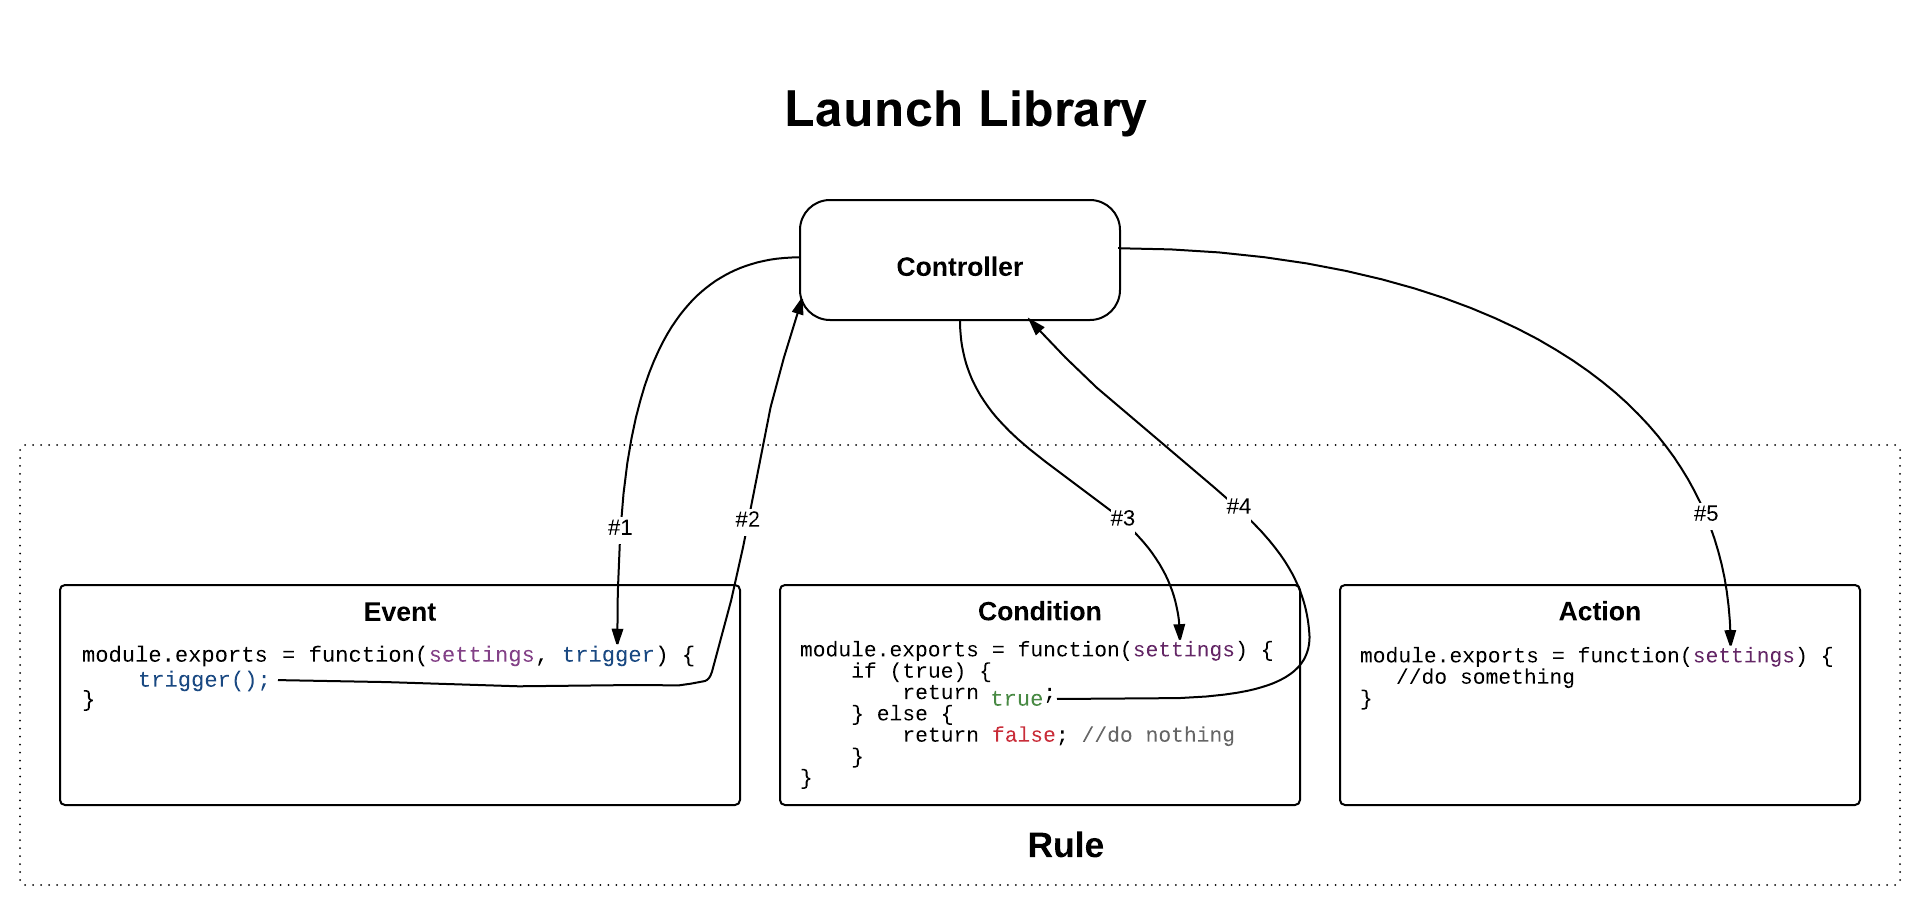
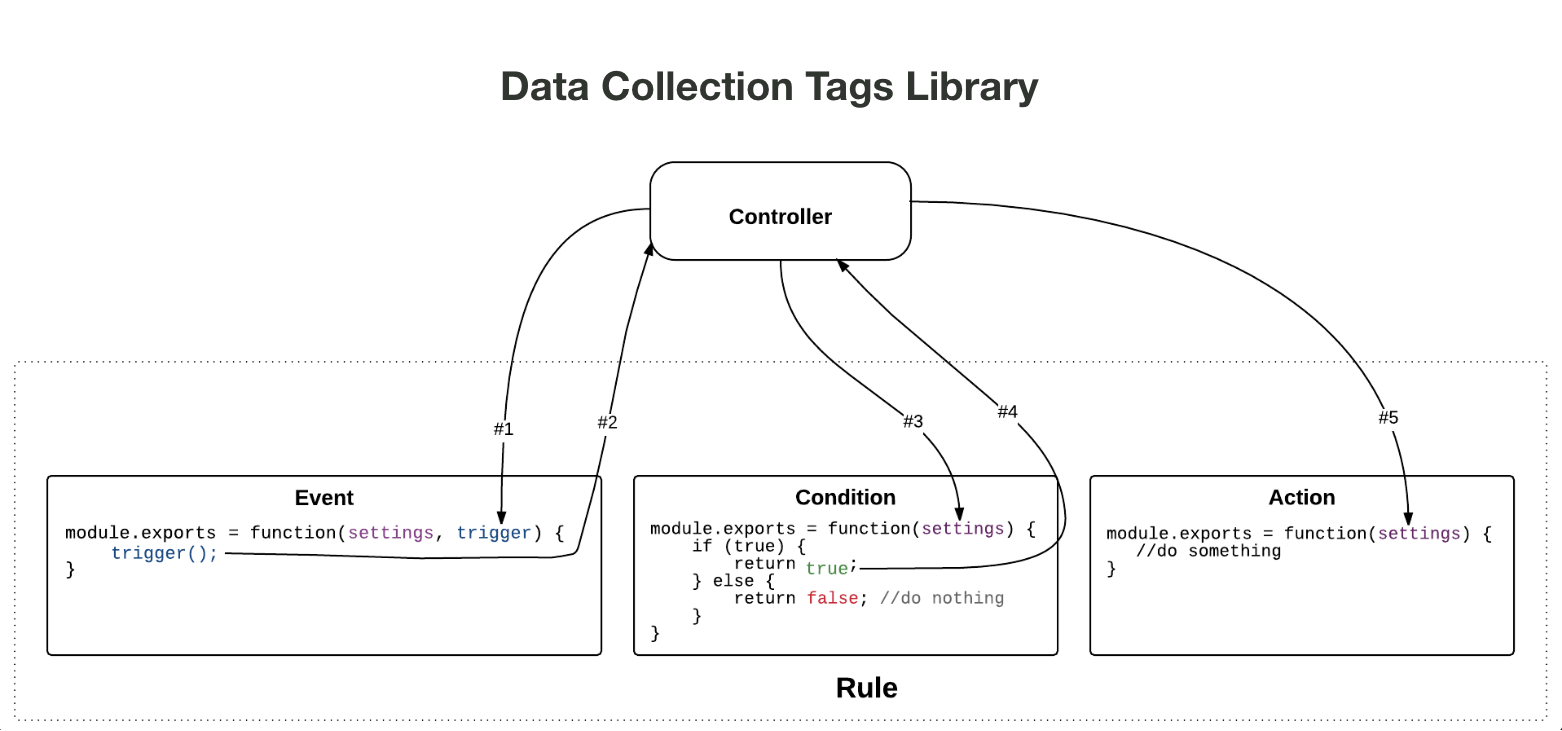
Updated diagrams with current terminology. Updated content and metadata in line with tags branding guidelines.

diff --git a/help/extension-dev/web/flow.md b/help/extension-dev/web/flow.md
@@ -1,13 +1,13 @@
 ---
 title: Web Extension Flow
-description: Learn how the components of an Adobe Experience Platform Launch web extension interact with each other at runtime.
+description: Learn how web extension components interact with each other at runtime in Adobe Experience Platform Data Collection tags.
 exl-id: 51365bb9-a877-448a-9287-f33c19b8ab83
 ---
 # Web extension flow
 
 In web extensions, each event, condition, action, and data element type has both a view which allows users to modify settings and a library module to act upon those user-defined settings.
 
-As the following high-level diagram shows, the extension's event type view will be shown inside an iframe within the application integrated with Adobe Experience Platform Launch. The user then uses the view to modify settings which are then saved to Platform Launch's data storage. When the Platform Launch runtime library is built, both the extension's event type library module as well as the user-defined settings will be included in the runtime library. At runtime, Platform Launch will inject the user-defined settings into the library module.
+As the following high-level diagram shows, the extension's event type view will be shown inside an iframe within the application integrated with Adobe Experience Data Collection. The user then uses the view to modify settings which are then saved to Data Collection's data storage. When the Data Collection tags runtime library is built, both the extension's event type library module as well as the user-defined settings will be included in the runtime library. At runtime, Data Collection tags will inject the user-defined settings into the library module.
 
 ![extension flow diagram](../images/flow/web/extension-flow.png)
 
@@ -18,7 +18,7 @@ In the following diagram you can see the link between events, conditions and act
 The rule processing flow contains the following phases:
 
 1. The `settings` and the `trigger` method are provided to the event library module at startup.
-1. When the event library module determines the event has occurred, the event library module calls `trigger`.
-1. Platform Launch passes `settings` into the rule’s condition library modules where conditions are evaluated.
-1. Each condition library module returns whether a condition evaluates to true.
-1. If all conditions pass, the rule’s actions are executed.
+2. When the event library module determines the event has occurred, the event library module calls `trigger`.
+3. Platform Launch passes `settings` into the rule’s condition library modules where conditions are evaluated.
+4. Each condition library module returns whether a condition evaluates to true.
+5. If all conditions pass, the rule’s actions are executed.
